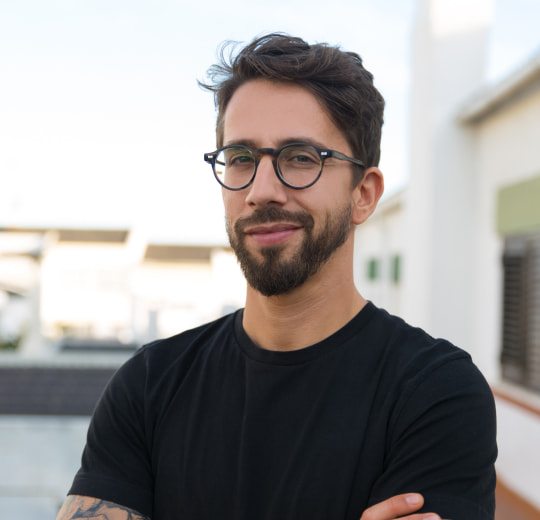
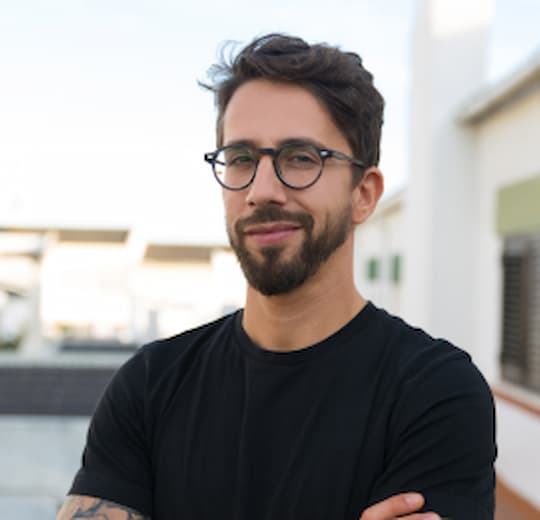
update

diff --git a/CSS/main.min.css b/CSS/main.min.css
@@ -1,1 +1,1 @@
-*{margin:0;padding:0}body{font-family:"Roboto","Raleway",sans-serif;color:#212121}a{text-decoration:none;color:inherit}a:hover,a:focus,a:active{color:#2196f3}.container{width:100%;max-width:1200px;margin:0 auto;padding-left:15px;padding-right:15px}.section__padding-top{padding-top:94px}.section__padding-bottom{padding-bottom:94px}.section-header{font-size:36px;font-weight:700;line-height:1.17;text-align:center}.contacts{font-weight:500;font-size:14px;line-height:1.14;letter-spacing:.02em;color:#757575}img{display:block}.header{border-bottom:1px solid #ececec}.header__flex{display:-webkit-box;display:-ms-flexbox;display:flex;-webkit-box-pack:justify;-ms-flex-pack:justify;justify-content:space-between;-webkit-box-align:center;-ms-flex-align:center;align-items:center}.header__padding{padding-top:16px;padding-bottom:16px}.header__menu{display:-webkit-box;display:-ms-flexbox;display:flex;-webkit-box-pack:justify;-ms-flex-pack:justify;justify-content:space-between;-webkit-box-align:center;-ms-flex-align:center;align-items:center}.header__nav{font-weight:500;font-size:14px;line-height:1.14;letter-spacing:.02em;display:-webkit-box;display:-ms-flexbox;display:flex;margin-left:93px;gap:46px}.header__nav-link{-webkit-transition:250ms cubic-bezier(0.4, 0, 0.2, 1);transition:250ms cubic-bezier(0.4, 0, 0.2, 1)}.header__nav-link--active{position:relative;color:#2196f3}.header__nav-link--active::after{content:"";display:block;background-color:#2196f3;height:4px;width:100%;position:absolute;bottom:-33px;border-radius:2px}.header__contacts-flex{display:-webkit-box;display:-ms-flexbox;display:flex;-webkit-box-align:center;-ms-flex-align:center;align-items:center}.header__contacts-link{display:-webkit-box;display:-ms-flexbox;display:flex;-webkit-box-align:center;-ms-flex-align:center;align-items:center;padding-right:30px;-webkit-transition:color 250ms cubic-bezier(0.4, 0, 0.2, 1);transition:color 250ms cubic-bezier(0.4, 0, 0.2, 1)}.header__contacts-icon-mail{width:16px;height:12px;fill:currentColor;padding-right:10px}.header__contacts-icon-tel{width:10px;height:16px;fill:currentColor;padding-right:10px}.header__contacts-icon-mail:hover,.header__contacts-icon-tel:hover,.header__contacts-icon-mail:focus,.header__contacts-icon-tel:focus{fill:#2196f3}@media screen and (min-width: 768px)and (max-width: 1200px){.header__padding{padding:26px 25px}.header__contacts-flex{-webkit-box-orient:vertical;-webkit-box-direction:normal;-ms-flex-direction:column;flex-direction:column;-webkit-box-align:start;-ms-flex-align:start;align-items:flex-start;gap:10px}.header__menu-contact-link{font-size:12px}}@media screen and (min-width: 1200px){.header__contacts-flex{display:-webkit-box;display:-ms-flexbox;display:flex;-webkit-box-align:center;-ms-flex-align:center;align-items:center}.header__padding{padding:26px 25px}}.logo{font-family:"raleway",sans-serif;font-size:26px;line-height:1.17;color:#2196f3;display:inline-block}.logo--header{color:#000}.logo--footer{color:#fff}.hero{background:-webkit-gradient(linear, left top, left bottom, from(rgba(47, 48, 58, 0.4)), to(rgba(47, 48, 58, 0.4))),url(../images/banner-photo.jpg);background:linear-gradient(rgba(47, 48, 58, 0.4), rgba(47, 48, 58, 0.4)),url(../images/banner-photo.jpg);background-size:cover;margin:0 auto}.hero__text{font-weight:900;font-size:26px;line-height:1.6;text-align:center;letter-spacing:.06em;text-transform:uppercase;color:#fff;padding-top:200px;padding-bottom:30px;margin:0}.hero__button,.modal__form-button,.footer__newsletter-button{cursor:pointer;font-size:16px;font-weight:700;line-height:1.88;letter-spacing:.06em;background-color:#2196f3;color:#fff;width:200px;height:50px;border:none;border-radius:4px}.hero__button-flex{display:-webkit-box;display:-ms-flexbox;display:flex;-webkit-box-pack:center;-ms-flex-pack:center;justify-content:center;padding-bottom:200px}@media(min-device-pixel-ratio: 2),(-webkit-min-device-pixel-ratio: 2),(min-resolution: 192dpi),(min-resolution: 2dppx){.hero{background:-webkit-gradient(linear, left top, left bottom, from(rgba(47, 48, 58, 0.4)), to(rgba(47, 48, 58, 0.4))),url(../images/banner-photo@2x.jpg);background:linear-gradient(rgba(47, 48, 58, 0.4), rgba(47, 48, 58, 0.4)),url(../images/banner-photo@2x.jpg)}}@media screen and (min-width: 768px)and (max-width: 768px){.hero{padding-top:80px}}@media screen and (min-width: 1200px){.hero{height:600px;padding-top:80px}.hero__text{font-size:44px;line-height:1.4}}.strengths__list{list-style-type:none;font-size:14px;line-height:1.7;display:-webkit-box;display:-ms-flexbox;display:flex;-ms-flex-wrap:wrap;flex-wrap:wrap;gap:20px}.strengths__box{border-radius:4px;background:#f5f4fa;display:-webkit-box;display:-ms-flexbox;display:flex;-webkit-box-pack:center;-ms-flex-pack:center;justify-content:center;-webkit-box-align:center;-ms-flex-align:center;align-items:center;margin-bottom:30px}.strengths__title{text-align:center}.strengths__text{color:#757575;font-size:14px;line-height:1.7;padding-top:10px}.strengths__icons{width:70px;height:70px}@media screen and (min-width: 768px){.strengths__title{text-align:left}.strengths__list-item{-ms-flex-preferred-size:calc((100% - 30px)/2);flex-basis:calc((100% - 30px)/2)}}@media screen and (min-width: 1200px){.strengths__list{-ms-flex-wrap:nowrap;flex-wrap:nowrap}.strengths__title{text-align:left}}.what-we-do{display:none;padding-top:50px;-webkit-box-pack:center;-ms-flex-pack:center;justify-content:center}.what-we-do__img-list{position:relative;list-style:none;display:-webkit-box;display:-ms-flexbox;display:flex;gap:30px;padding-top:50px}.what-we-do__img-caption{position:absolute;width:370px;bottom:0;padding:27px 0;font-weight:700;font-size:14px;line-height:1.14;text-align:center;letter-spacing:.03em;text-transform:uppercase;color:#fff;background-color:rgba(47,48,58,.8)}@media screen and (min-width: 1200px){.what-we-do{display:block}}.team__background{background-color:#f5f4fa}.team__flex{display:-webkit-box;display:-ms-flexbox;display:flex;-ms-flex-wrap:wrap;flex-wrap:wrap;padding-top:50px;-webkit-box-pack:justify;-ms-flex-pack:justify;justify-content:space-between;gap:30px}.team__card{background-color:#fff;-webkit-box-shadow:0px 1px 3px rgba(0,0,0,.12),0px 1px 1px rgba(0,0,0,.14),0px 2px 1px rgba(0,0,0,.2);box-shadow:0px 1px 3px rgba(0,0,0,.12),0px 1px 1px rgba(0,0,0,.14),0px 2px 1px rgba(0,0,0,.2);border-radius:0px 0px 4px 4px;text-align:center}.team__card-caption{display:block;padding:30px 0 30px 0}.team__name{font-weight:500;padding-bottom:10px}.team__job{color:#757575}.clients__list{list-style:none;display:-webkit-box;display:-ms-flexbox;display:flex;-webkit-box-pack:justify;-ms-flex-pack:justify;justify-content:space-between;padding-top:50px;gap:30px;-ms-flex-wrap:wrap;flex-wrap:wrap}.clients__list-item{-ms-flex-preferred-size:calc((100% - 30px)/2);flex-basis:calc((100% - 30px)/2)}.clients__box{display:-webkit-box;display:-ms-flexbox;display:flex;-webkit-box-pack:center;-ms-flex-pack:center;justify-content:center;-webkit-box-align:center;-ms-flex-align:center;align-items:center}.clients__border{border:1px solid #afb1b8;color:#afb1b8;border-radius:4px;width:auto;height:92px;-webkit-transition:250ms cubic-bezier(0.4, 0, 0.2, 1);transition:250ms cubic-bezier(0.4, 0, 0.2, 1)}.clients__border:hover,.clients__border:focus{border:1px solid #2196f3;fill:#2196f3}.clients__icon{width:106px;height:60px;padding:15px 30px;fill:currentColor}@media screen and (min-width: 768px){.clients__list-item{-ms-flex-preferred-size:calc((100% - 30px)/3);flex-basis:calc((100% - 30px)/3)}}@media screen and (min-width: 1200px){.clients__list{-ms-flex-wrap:nowrap;flex-wrap:nowrap}.clients__list-item{-ms-flex-preferred-size:auto;flex-basis:auto}}.footer{padding-top:60px;padding-bottom:60px;background-color:#2f303a;color:#fff;line-height:1.7;font-size:14px}.footer__padding{padding-bottom:20px}.footer__flex{display:-webkit-box;display:-ms-flexbox;display:flex;-webkit-box-orient:vertical;-webkit-box-direction:normal;-ms-flex-direction:column;flex-direction:column;-webkit-box-align:center;-ms-flex-align:center;align-items:center;text-align:center}.footer__contacts{display:inline-block}.footer__studio-address{font-style:normal}.footer__mail{color:rgba(255,255,255,.6);-webkit-box-pack:start;-ms-flex-pack:start;justify-content:flex-start;margin-top:10px;margin-bottom:10px}.footer__tel{color:rgba(255,255,255,.6);-webkit-box-pack:start;-ms-flex-pack:start;justify-content:flex-start}.footer__text{font-weight:700;line-height:1.17;letter-spacing:.03em;text-transform:uppercase}.footer__join-us{padding-top:60px}.footer__newsletter-flex{padding-top:60px}.footer__newsletter-form-flex{display:-webkit-box;display:-ms-flexbox;display:flex;-webkit-box-orient:vertical;-webkit-box-direction:normal;-ms-flex-direction:column;flex-direction:column;-webkit-box-pack:center;-ms-flex-pack:center;justify-content:center;-webkit-box-align:center;-ms-flex-align:center;align-items:center;gap:12px;padding-top:20px}.footer__newsletter-form-input{letter-spacing:.03em;color:rgba(255,255,255,.6);background-color:#2f303a;border:1px solid rgba(255,255,255,.3);border-radius:4px;height:50px;width:calc(100vw - 30px);max-width:450px;-webkit-filter:drop-shadow(0px 4px 4px rgba(0, 0, 0, 0.15));filter:drop-shadow(0px 4px 4px rgba(0, 0, 0, 0.15));padding-left:16px;-webkit-transition:250ms cubic-bezier(0.4, 0, 0.2, 1);transition:250ms cubic-bezier(0.4, 0, 0.2, 1);outline:none}.footer__newsletter-form-input:hover,.footer__newsletter-form-input:focus{border-color:#2196f3}.footer__newsletter-button{-webkit-box-shadow:0px 4px 4px rgba(0,0,0,.15);box-shadow:0px 4px 4px rgba(0,0,0,.15);padding-top:10px;padding-bottom:10px;margin:0;display:-webkit-box;display:-ms-flexbox;display:flex;-webkit-box-pack:center;-ms-flex-pack:center;justify-content:center;-webkit-box-align:center;-ms-flex-align:center;align-items:center;gap:24px}.footer__newsletter-button--icon{width:24px;height:24px;fill:#fff}.social-links{list-style:none;display:-webkit-box;display:-ms-flexbox;display:flex;-webkit-box-pack:center;-ms-flex-pack:center;justify-content:center;padding-top:20px;gap:10px}.social-links__flex{display:-webkit-box;display:-ms-flexbox;display:flex;-webkit-box-pack:center;-ms-flex-pack:center;justify-content:center;-webkit-box-align:center;-ms-flex-align:center;align-items:center}.social-links__icons{width:20px;height:20px;fill:currentColor}.social-links__border{display:-webkit-box;display:-ms-flexbox;display:flex;padding:12px;color:#afb1b8;border-radius:50%}.social-links__border:hover,.social-links__border:focus{background-color:#2196f3;color:#f5f4fa;-webkit-transition:250ms cubic-bezier(0.4, 0, 0.2, 1);transition:250ms cubic-bezier(0.4, 0, 0.2, 1)}.social-links__border--footer{border:1px hidden rgba(255,255,255,.1);background-color:rgba(255,255,255,.1);color:#fff}.backdrop--is-hidden{opacity:0;visibility:hidden;pointer-events:none}textarea#comment::-webkit-input-placeholder{color:rgba(117,117,117,.5);font-weight:400;font-size:12px;line-height:1.17;letter-spacing:.01em;text-align:left}textarea#comment::-moz-placeholder{color:rgba(117,117,117,.5);font-weight:400;font-size:12px;line-height:1.17;letter-spacing:.01em;text-align:left}textarea#comment:-ms-input-placeholder{color:rgba(117,117,117,.5);font-weight:400;font-size:12px;line-height:1.17;letter-spacing:.01em;text-align:left}textarea#comment::-ms-input-placeholder{color:rgba(117,117,117,.5);font-weight:400;font-size:12px;line-height:1.17;letter-spacing:.01em;text-align:left}textarea#comment::placeholder{color:rgba(117,117,117,.5);font-weight:400;font-size:12px;line-height:1.17;letter-spacing:.01em;text-align:left}.modal{position:sticky;width:528px;top:221px;right:536px;bottom:222px;left:536px;left:50%;background:#fff;-webkit-box-shadow:0px 1px 3px rgba(0,0,0,.12),0px 1px 1px rgba(0,0,0,.14),0px 2px 1px rgba(0,0,0,.2);box-shadow:0px 1px 3px rgba(0,0,0,.12),0px 1px 1px rgba(0,0,0,.14),0px 2px 1px rgba(0,0,0,.2);border-radius:4px;-webkit-transform:translate(-50%);transform:translate(-50%);-webkit-box-sizing:border-box;box-sizing:border-box}.modal__backdrop{position:fixed;left:0;top:0;width:100%;height:100%;background-color:rgba(0,0,0,.4);-webkit-transition:500ms ease-in-out;transition:500ms ease-in-out}.modal__backdrop .modal{-webkit-transform:translate(-50%) scale(1);transform:translate(-50%) scale(1);-webkit-transition:500ms ease-in-out;transition:500ms ease-in-out}.modal__backdrop.backdrop--is-hidden .modal{-webkit-transform:translate(-50%) scale(0);transform:translate(-50%) scale(0);-webkit-transition:500ms ease-in-out;transition:500ms ease-in-out}.modal__close-button{position:absolute;top:8px;right:8px;width:30px;height:30px;background-color:#fff;border:1px solid rgba(0,0,0,.1);border-radius:50%;cursor:pointer;font-size:22px}.modal__close-button:hover{background-color:#2196f3;color:#f5f4fa;-webkit-transition:250ms cubic-bezier(0.4, 0, 0.2, 1);transition:250ms cubic-bezier(0.4, 0, 0.2, 1)}.modal__form-wrapper{padding:40px;display:-webkit-box;display:-ms-flexbox;display:flex;-webkit-box-orient:vertical;-webkit-box-direction:normal;-ms-flex-direction:column;flex-direction:column;-webkit-box-sizing:border-box;box-sizing:border-box}.modal__form-header{font-weight:700;font-size:20px;line-height:1.15;text-align:center;letter-spacing:.03em;padding-bottom:12px}.modal__form-label{display:block;padding-bottom:4px;color:#757575;font-weight:400;font-size:12px;line-height:1.166;letter-spacing:.01em}.modal__form-field{position:relative;margin-bottom:10px}.modal__form-field-icon{position:absolute;left:15px;top:50%;-webkit-transform:translateY(-50%);transform:translateY(-50%);width:18px;height:18px;-webkit-transition:fill 250ms cubic-bezier(0.4, 0, 0.2, 1);transition:fill 250ms cubic-bezier(0.4, 0, 0.2, 1)}.modal__form-field:focus-within .modal__form-field-icon,.modal__form-field:hover .modal__form-field-icon{fill:#2196f3}.modal__form-links{text-decoration:underline;color:#2196f3}.modal__form-input,.modal__form-comment{border:1px solid rgba(33,33,33,.2);border-radius:4px;width:100%;height:40px;padding:12px 0 12px 42px;-webkit-box-sizing:border-box;box-sizing:border-box;-webkit-transition:250ms cubic-bezier(0.4, 0, 0.2, 1);transition:250ms cubic-bezier(0.4, 0, 0.2, 1);outline:none}.modal__form-input:hover,.modal__form-comment:hover,.modal__form-input:focus,.modal__form-comment:focus{border-color:#2196f3}.modal__form-comment{resize:none;height:120px;padding:12px 0 0 16px}.modal__form-comment:hover,.modal__form-comment:focus{border-color:#2196f3}.modal__form-checkbox{position:relative;display:-webkit-box;display:-ms-flexbox;display:flex;-webkit-box-pack:center;-ms-flex-pack:center;justify-content:center;-webkit-box-align:center;-ms-flex-align:center;align-items:center;margin-top:20px;margin-bottom:30px}.modal__form-checkbox input{background-color:#fff;margin:0;-webkit-appearance:none;-moz-appearance:none;appearance:none;border:2px solid #212121;width:15px;height:14px;border-radius:2px;margin-right:7px;-webkit-transition:250ms cubic-bezier(0.4, 0, 0.2, 1);transition:250ms cubic-bezier(0.4, 0, 0.2, 1)}.modal__form-checkbox input:checked{background-color:#2196f3;border:none}.modal__form-check-icon{width:11px;height:10px;position:absolute;left:18px;top:50%;-webkit-transform:translateY(-50%);transform:translateY(-50%);fill:#fff}.modal__form-terms-text{font-size:14px;line-height:1.7;letter-spacing:.03em;color:#757575}.modal__form-button{display:block;-webkit-box-shadow:0px 4px 4px rgba(0,0,0,.15);box-shadow:0px 4px 4px rgba(0,0,0,.15);margin:0 auto}@media screen and (max-width: 768px){.header__nav,.contacts{display:none}}@media screen and (min-width: 768px){.mobile-menu__toggle{display:none}}.mobile-menu{position:fixed;display:none;top:0;left:0;width:100vw;background-color:#fff;-webkit-transform:translateX(100%);transform:translateX(100%)}.mobile-menu__toggle{background:none;border:none;cursor:pointer}.mobile-menu .mobile-menu__toggle{position:absolute;color:#fff;top:16px;right:16px}.mobile-menu__container{height:100%;display:-webkit-box;display:-ms-flexbox;display:flex;-webkit-box-pack:justify;-ms-flex-pack:justify;justify-content:space-between;-webkit-box-orient:vertical;-webkit-box-direction:normal;-ms-flex-direction:column;flex-direction:column;padding-left:40px;padding-right:40px}.mobile-menu__navigation{display:-webkit-box;display:-ms-flexbox;display:flex;-webkit-box-orient:vertical;-webkit-box-direction:normal;-ms-flex-direction:column;flex-direction:column;list-style-type:none;gap:32px;padding-top:48px;padding-bottom:48px}.mobile-menu__navigation-link{font-weight:500;font-size:40px;line-height:1.18;text-align:center;letter-spacing:.02em}.mobile-menu__navigation-link-tel{font-size:34px;color:#2196f3}.mobile-menu__navigation-link-mail{font-size:24px;color:#757575}.mobile-menu__socials{list-style-type:none;display:-webkit-box;display:-ms-flexbox;display:flex;padding-top:64px}.mobile-menu__socials-item{font-weight:500;font-size:18px;line-height:1.22;letter-spacing:.02em;color:#2196f3;border-right:1px solid rgba(33,33,33,.2);margin-right:10px;padding-right:10px}.mobile-menu__socials-item:last-child{border-right:none}.mobile-menu.is-open{-webkit-transform:translateX(0);transform:translateX(0);opacity:1;display:block}.mobile-menu__close-button{position:absolute;top:8px;right:8px;width:30px;height:30px;background:none;cursor:pointer;font-size:22px}.portfolio__filters{list-style-type:none;display:-webkit-box;display:-ms-flexbox;display:flex;-webkit-box-pack:center;-ms-flex-pack:center;justify-content:center;gap:8px;padding-bottom:50px}.portfolio__button{background-color:#f5f4fa;color:#212121;cursor:pointer;font-size:16px;font-weight:500;line-height:1.62;letter-spacing:.03em;text-align:center;border-style:hidden;border-radius:4px}.portfolio__button:hover,.portfolio__button:focus{background-color:#2196f3;color:#fff;-webkit-box-shadow:0px 3px 1px rgba(0,0,0,.1),0px 1px 2px rgba(0,0,0,.08),0px 2px 2px rgba(0,0,0,.12);box-shadow:0px 3px 1px rgba(0,0,0,.1),0px 1px 2px rgba(0,0,0,.08),0px 2px 2px rgba(0,0,0,.12)}.portfolio__button-text{display:block;padding:6px 22px}.portfolio__main{color:#757575;line-height:2;display:-webkit-box;display:-ms-flexbox;display:flex;-ms-flex-wrap:wrap;flex-wrap:wrap;-webkit-box-pack:justify;-ms-flex-pack:justify;justify-content:space-between}.portfolio__card{margin-bottom:30px}.portfolio__card:hover .portfolio__card-overlay{-webkit-box-shadow:0px 1px 1px rgba(0,0,0,.12),0px 4px 4px rgba(0,0,0,.06),1px 4px 6px rgba(0,0,0,.16);box-shadow:0px 1px 1px rgba(0,0,0,.12),0px 4px 4px rgba(0,0,0,.06),1px 4px 6px rgba(0,0,0,.16);cursor:pointer;-webkit-transition:250ms cubic-bezier(0.4, 0, 0.2, 1);transition:250ms cubic-bezier(0.4, 0, 0.2, 1);-webkit-transform:translateY(-100%);transform:translateY(-100%)}.portfolio__card-overflow{position:relative;width:370px;height:294px;overflow:hidden}.portfolio__card-overlay{position:absolute;color:#fff;font-size:18px;line-height:1.56;letter-spacing:.03em;background-color:rgba(33,150,243,.9);padding:49px 45px 49px 24px;text-align:left;width:100%;height:100%;-webkit-transition:250ms cubic-bezier(0.4, 0, 0.2, 1);transition:250ms cubic-bezier(0.4, 0, 0.2, 1);-webkit-box-sizing:border-box;box-sizing:border-box}.portfolio__name{color:#212121;font-weight:700;font-size:18px;padding-bottom:4px}.portfolio__caption{border-left:solid 1px #eee;border-right:solid 1px #eee;border-bottom:solid 1px #eee;padding:20px 24px 20px 24px;cursor:pointer}/*# sourceMappingURL=main.min.css.map */
+*{margin:0;padding:0}body{font-family:"Roboto","Raleway",sans-serif;color:#212121}a{text-decoration:none;color:inherit}a:hover,a:focus,a:active{color:#2196f3}.container{max-width:1200px;margin:0 auto;padding-left:15px;padding-right:15px}.section__padding-top{padding-top:94px}.section__padding-bottom{padding-bottom:94px}.section-header{font-size:36px;font-weight:700;line-height:1.17;text-align:center}.contacts{font-weight:500;font-size:14px;line-height:1.14;letter-spacing:.02em;color:#757575}img{display:block;max-width:100%;height:auto}.header{border-bottom:1px solid #ececec}.header__flex{display:-webkit-box;display:-ms-flexbox;display:flex;-webkit-box-pack:justify;-ms-flex-pack:justify;justify-content:space-between;-webkit-box-align:center;-ms-flex-align:center;align-items:center}.header__padding{padding-top:16px;padding-bottom:16px}.header__menu{display:-webkit-box;display:-ms-flexbox;display:flex;-webkit-box-pack:justify;-ms-flex-pack:justify;justify-content:space-between;-webkit-box-align:center;-ms-flex-align:center;align-items:center}.header__nav{font-weight:500;font-size:14px;line-height:1.14;letter-spacing:.02em;display:-webkit-box;display:-ms-flexbox;display:flex;margin-left:93px;gap:46px}.header__nav-link{-webkit-transition:250ms cubic-bezier(0.4, 0, 0.2, 1);transition:250ms cubic-bezier(0.4, 0, 0.2, 1)}.header__nav-link--active{position:relative;color:#2196f3}.header__nav-link--active::after{content:"";display:block;background-color:#2196f3;height:4px;width:100%;position:absolute;bottom:-33px;border-radius:2px}.header__contacts-flex{display:-webkit-box;display:-ms-flexbox;display:flex;-webkit-box-align:center;-ms-flex-align:center;align-items:center}.header__contacts-link{display:-webkit-box;display:-ms-flexbox;display:flex;-webkit-box-align:center;-ms-flex-align:center;align-items:center;padding-right:30px;-webkit-transition:color 250ms cubic-bezier(0.4, 0, 0.2, 1);transition:color 250ms cubic-bezier(0.4, 0, 0.2, 1)}.header__contacts-icon-mail{width:16px;height:12px;fill:currentColor;padding-right:10px}.header__contacts-icon-tel{width:10px;height:16px;fill:currentColor;padding-right:10px}.header__contacts-icon-mail:hover,.header__contacts-icon-tel:hover,.header__contacts-icon-mail:focus,.header__contacts-icon-tel:focus{fill:#2196f3}@media screen and (min-width: 768px)and (max-width: 1200px){.header__padding{padding:26px 25px}.header__contacts-flex{-webkit-box-orient:vertical;-webkit-box-direction:normal;-ms-flex-direction:column;flex-direction:column;-webkit-box-align:start;-ms-flex-align:start;align-items:flex-start;gap:10px}.header__menu-contact-link{font-size:12px}}@media screen and (min-width: 1200px){.header__contacts-flex{display:-webkit-box;display:-ms-flexbox;display:flex;-webkit-box-align:center;-ms-flex-align:center;align-items:center}.header__padding{padding:26px 25px}}.logo{font-family:"raleway",sans-serif;font-size:26px;line-height:1.17;color:#2196f3;display:inline-block}.logo--header{color:#000}.logo--footer{color:#fff}.hero{background:-webkit-gradient(linear, left top, left bottom, from(rgba(47, 48, 58, 0.4)), to(rgba(47, 48, 58, 0.4))),url(../images/banner-photo.jpg);background:linear-gradient(rgba(47, 48, 58, 0.4), rgba(47, 48, 58, 0.4)),url(../images/banner-photo.jpg);background-size:cover;margin:0 auto}.hero__text{font-weight:900;font-size:26px;line-height:1.6;text-align:center;letter-spacing:.06em;text-transform:uppercase;color:#fff;padding-top:200px;padding-bottom:30px;margin:0}.hero__button,.modal__form-button,.footer__newsletter-button{cursor:pointer;font-size:16px;font-weight:700;line-height:1.88;letter-spacing:.06em;background-color:#2196f3;color:#fff;width:200px;height:50px;border:none;border-radius:4px}.hero__button-flex{display:-webkit-box;display:-ms-flexbox;display:flex;-webkit-box-pack:center;-ms-flex-pack:center;justify-content:center;padding-bottom:200px}@media(min-device-pixel-ratio: 2),(-webkit-min-device-pixel-ratio: 2),(min-resolution: 192dpi),(min-resolution: 2dppx){.hero{background:-webkit-gradient(linear, left top, left bottom, from(rgba(47, 48, 58, 0.4)), to(rgba(47, 48, 58, 0.4))),url(../images/banner-photo@2x.jpg);background:linear-gradient(rgba(47, 48, 58, 0.4), rgba(47, 48, 58, 0.4)),url(../images/banner-photo@2x.jpg)}}@media screen and (min-width: 768px)and (max-width: 768px){.hero{padding-top:80px}}@media screen and (min-width: 1200px){.hero{height:600px;padding-top:80px}.hero__text{font-size:44px;line-height:1.4}}.strengths__list{list-style-type:none;font-size:14px;line-height:1.7;display:-webkit-box;display:-ms-flexbox;display:flex;-ms-flex-wrap:wrap;flex-wrap:wrap;gap:20px}.strengths__box{border-radius:4px;background:#f5f4fa;display:-webkit-box;display:-ms-flexbox;display:flex;-webkit-box-pack:center;-ms-flex-pack:center;justify-content:center;-webkit-box-align:center;-ms-flex-align:center;align-items:center;margin-bottom:30px}.strengths__title{text-align:center}.strengths__text{color:#757575;font-size:14px;line-height:1.7;padding-top:10px}.strengths__icons{width:70px;height:70px}@media screen and (min-width: 768px){.strengths__title{text-align:left}.strengths__list-item{-ms-flex-preferred-size:calc((100% - 30px)/2);flex-basis:calc((100% - 30px)/2)}}@media screen and (min-width: 1200px){.strengths__list{-ms-flex-wrap:nowrap;flex-wrap:nowrap}.strengths__title{text-align:left}}.what-we-do{display:none;padding-top:50px;-webkit-box-pack:center;-ms-flex-pack:center;justify-content:center}.what-we-do__img-list{position:relative;list-style:none;display:-webkit-box;display:-ms-flexbox;display:flex;gap:30px;padding-top:50px}.what-we-do__img-caption{position:absolute;width:370px;bottom:0;padding:27px 0;font-weight:700;font-size:14px;line-height:1.14;text-align:center;letter-spacing:.03em;text-transform:uppercase;color:#fff;background-color:rgba(47,48,58,.8)}@media screen and (min-width: 1200px){.what-we-do{display:block}}.team__background{background-color:#f5f4fa}.team__flex{display:-webkit-box;display:-ms-flexbox;display:flex;-ms-flex-wrap:wrap;flex-wrap:wrap;padding-top:50px;-webkit-box-pack:justify;-ms-flex-pack:justify;justify-content:space-between;gap:30px}.team__card{background-color:#fff;-webkit-box-shadow:0px 1px 3px rgba(0,0,0,.12),0px 1px 1px rgba(0,0,0,.14),0px 2px 1px rgba(0,0,0,.2);box-shadow:0px 1px 3px rgba(0,0,0,.12),0px 1px 1px rgba(0,0,0,.14),0px 2px 1px rgba(0,0,0,.2);border-radius:0px 0px 4px 4px;text-align:center}.team__card-caption{display:block;padding:30px 0 30px 0}.team__name{font-weight:500;padding-bottom:10px}.team__job{color:#757575}@media screen and (min-width: 768px){.team__card{-ms-flex-preferred-size:calc((100% - 30px)/2);flex-basis:calc((100% - 30px)/2)}}@media screen and (min-width: 1200px){.team__flex{-ms-flex-wrap:nowrap;flex-wrap:nowrap}}.clients__list{list-style:none;display:-webkit-box;display:-ms-flexbox;display:flex;-webkit-box-pack:justify;-ms-flex-pack:justify;justify-content:space-between;padding-top:50px;gap:30px;-ms-flex-wrap:wrap;flex-wrap:wrap}.clients__list-item{-ms-flex-preferred-size:calc((100% - 30px)/2);flex-basis:calc((100% - 30px)/2)}.clients__box{display:-webkit-box;display:-ms-flexbox;display:flex;-webkit-box-pack:center;-ms-flex-pack:center;justify-content:center;-webkit-box-align:center;-ms-flex-align:center;align-items:center}.clients__border{border:1px solid #afb1b8;color:#afb1b8;border-radius:4px;width:auto;height:92px;-webkit-transition:250ms cubic-bezier(0.4, 0, 0.2, 1);transition:250ms cubic-bezier(0.4, 0, 0.2, 1)}.clients__border:hover,.clients__border:focus{border:1px solid #2196f3;fill:#2196f3}.clients__icon{width:106px;height:60px;padding:15px 30px;fill:currentColor}@media screen and (min-width: 768px){.clients__list-item{-ms-flex-preferred-size:calc((100% - 30px)/3);flex-basis:calc((100% - 30px)/3)}}@media screen and (min-width: 1200px){.clients__list{-ms-flex-wrap:nowrap;flex-wrap:nowrap}.clients__list-item{-ms-flex-preferred-size:auto;flex-basis:auto}}.footer{padding-top:60px;padding-bottom:60px;background-color:#2f303a;color:#fff;line-height:1.7;font-size:14px}.footer__padding{padding-bottom:20px}.footer__flex{display:-webkit-box;display:-ms-flexbox;display:flex;-webkit-box-orient:vertical;-webkit-box-direction:normal;-ms-flex-direction:column;flex-direction:column;text-align:center}.footer__contacts{display:inline-block}.footer__studio-address{font-style:normal}.footer__mail{color:rgba(255,255,255,.6);-webkit-box-pack:start;-ms-flex-pack:start;justify-content:flex-start;margin-top:10px;margin-bottom:10px}.footer__tel{color:rgba(255,255,255,.6);-webkit-box-pack:start;-ms-flex-pack:start;justify-content:flex-start}.footer__text{font-weight:700;line-height:1.17;letter-spacing:.03em;text-transform:uppercase}.footer__join-us{padding-top:60px}.footer__newsletter-flex{padding-top:60px}.footer__newsletter-form-flex{display:-webkit-box;display:-ms-flexbox;display:flex;-webkit-box-orient:vertical;-webkit-box-direction:normal;-ms-flex-direction:column;flex-direction:column;-webkit-box-pack:center;-ms-flex-pack:center;justify-content:center;-webkit-box-align:center;-ms-flex-align:center;align-items:center;gap:12px;padding-top:20px}.footer__newsletter-form-input{letter-spacing:.03em;color:rgba(255,255,255,.6);background-color:#2f303a;border:1px solid rgba(255,255,255,.3);border-radius:4px;height:50px;width:calc(100vw - 30px);max-width:450px;-webkit-filter:drop-shadow(0px 4px 4px rgba(0, 0, 0, 0.15));filter:drop-shadow(0px 4px 4px rgba(0, 0, 0, 0.15));padding-left:16px;-webkit-transition:250ms cubic-bezier(0.4, 0, 0.2, 1);transition:250ms cubic-bezier(0.4, 0, 0.2, 1);outline:none}.footer__newsletter-form-input:hover,.footer__newsletter-form-input:focus{border-color:#2196f3}.footer__newsletter-button{-webkit-box-shadow:0px 4px 4px rgba(0,0,0,.15);box-shadow:0px 4px 4px rgba(0,0,0,.15);padding-top:10px;padding-bottom:10px;margin:0;display:-webkit-box;display:-ms-flexbox;display:flex;-webkit-box-pack:center;-ms-flex-pack:center;justify-content:center;-webkit-box-align:center;-ms-flex-align:center;align-items:center;gap:24px}.footer__newsletter-button--icon{width:24px;height:24px;fill:#fff}@media screen and (min-width: 768px){.footer__flex{-webkit-box-orient:horizontal;-webkit-box-direction:normal;-ms-flex-direction:row;flex-direction:row;-ms-flex-pack:distribute;justify-content:space-around;-ms-flex-wrap:wrap;flex-wrap:wrap}.footer__newsletter-form-input{width:450px}.footer__join-us{padding-top:0px}}@media screen and (min-width: 1200px){.footer__flex{display:-webkit-box;display:-ms-flexbox;display:flex}.footer__join-us{padding:12px 0px 0px 70px}.footer__newsletter-flex{padding:12px 0px 0px 70px}.footer__newsletter-form-flex{-webkit-box-orient:horizontal;-webkit-box-direction:normal;-ms-flex-direction:row;flex-direction:row}.footer__newsletter-form-input{width:340px}}.social-links{list-style:none;display:-webkit-box;display:-ms-flexbox;display:flex;-webkit-box-pack:center;-ms-flex-pack:center;justify-content:center;padding-top:20px;gap:10px}.social-links__flex{display:-webkit-box;display:-ms-flexbox;display:flex;-webkit-box-pack:center;-ms-flex-pack:center;justify-content:center;-webkit-box-align:center;-ms-flex-align:center;align-items:center}.social-links__icons{width:20px;height:20px;fill:currentColor}.social-links__border{display:-webkit-box;display:-ms-flexbox;display:flex;padding:12px;color:#afb1b8;border-radius:50%}.social-links__border:hover,.social-links__border:focus{background-color:#2196f3;color:#f5f4fa;-webkit-transition:250ms cubic-bezier(0.4, 0, 0.2, 1);transition:250ms cubic-bezier(0.4, 0, 0.2, 1)}.social-links__border--footer{border:1px hidden rgba(255,255,255,.1);background-color:rgba(255,255,255,.1);color:#fff}.backdrop--is-hidden{opacity:0;visibility:hidden;pointer-events:none}textarea#comment::-webkit-input-placeholder{color:rgba(117,117,117,.5);font-weight:400;font-size:12px;line-height:1.17;letter-spacing:.01em;text-align:left}textarea#comment::-moz-placeholder{color:rgba(117,117,117,.5);font-weight:400;font-size:12px;line-height:1.17;letter-spacing:.01em;text-align:left}textarea#comment:-ms-input-placeholder{color:rgba(117,117,117,.5);font-weight:400;font-size:12px;line-height:1.17;letter-spacing:.01em;text-align:left}textarea#comment::-ms-input-placeholder{color:rgba(117,117,117,.5);font-weight:400;font-size:12px;line-height:1.17;letter-spacing:.01em;text-align:left}textarea#comment::placeholder{color:rgba(117,117,117,.5);font-weight:400;font-size:12px;line-height:1.17;letter-spacing:.01em;text-align:left}.modal{position:sticky;width:528px;top:221px;right:536px;bottom:222px;left:536px;left:50%;background:#fff;-webkit-box-shadow:0px 1px 3px rgba(0,0,0,.12),0px 1px 1px rgba(0,0,0,.14),0px 2px 1px rgba(0,0,0,.2);box-shadow:0px 1px 3px rgba(0,0,0,.12),0px 1px 1px rgba(0,0,0,.14),0px 2px 1px rgba(0,0,0,.2);border-radius:4px;-webkit-transform:translate(-50%);transform:translate(-50%);-webkit-box-sizing:border-box;box-sizing:border-box}.modal__backdrop{position:fixed;left:0;top:0;width:100%;height:100%;background-color:rgba(0,0,0,.4);-webkit-transition:500ms ease-in-out;transition:500ms ease-in-out}.modal__backdrop .modal{-webkit-transform:translate(-50%) scale(1);transform:translate(-50%) scale(1);-webkit-transition:500ms ease-in-out;transition:500ms ease-in-out}.modal__backdrop.backdrop--is-hidden .modal{-webkit-transform:translate(-50%) scale(0);transform:translate(-50%) scale(0);-webkit-transition:500ms ease-in-out;transition:500ms ease-in-out}.modal__close-button{position:absolute;top:8px;right:8px;width:30px;height:30px;background-color:#fff;border:1px solid rgba(0,0,0,.1);border-radius:50%;cursor:pointer;font-size:22px}.modal__close-button:hover{background-color:#2196f3;color:#f5f4fa;-webkit-transition:250ms cubic-bezier(0.4, 0, 0.2, 1);transition:250ms cubic-bezier(0.4, 0, 0.2, 1)}.modal__form-wrapper{padding:40px;display:-webkit-box;display:-ms-flexbox;display:flex;-webkit-box-orient:vertical;-webkit-box-direction:normal;-ms-flex-direction:column;flex-direction:column;-webkit-box-sizing:border-box;box-sizing:border-box}.modal__form-header{font-weight:700;font-size:20px;line-height:1.15;text-align:center;letter-spacing:.03em;padding-bottom:12px}.modal__form-label{display:block;padding-bottom:4px;color:#757575;font-weight:400;font-size:12px;line-height:1.166;letter-spacing:.01em}.modal__form-field{position:relative;margin-bottom:10px}.modal__form-field-icon{position:absolute;left:15px;top:50%;-webkit-transform:translateY(-50%);transform:translateY(-50%);width:18px;height:18px;-webkit-transition:fill 250ms cubic-bezier(0.4, 0, 0.2, 1);transition:fill 250ms cubic-bezier(0.4, 0, 0.2, 1)}.modal__form-field:focus-within .modal__form-field-icon,.modal__form-field:hover .modal__form-field-icon{fill:#2196f3}.modal__form-links{text-decoration:underline;color:#2196f3}.modal__form-input,.modal__form-comment{border:1px solid rgba(33,33,33,.2);border-radius:4px;width:100%;height:40px;padding:12px 0 12px 42px;-webkit-box-sizing:border-box;box-sizing:border-box;-webkit-transition:250ms cubic-bezier(0.4, 0, 0.2, 1);transition:250ms cubic-bezier(0.4, 0, 0.2, 1);outline:none}.modal__form-input:hover,.modal__form-comment:hover,.modal__form-input:focus,.modal__form-comment:focus{border-color:#2196f3}.modal__form-comment{resize:none;height:120px;padding:12px 0 0 16px}.modal__form-comment:hover,.modal__form-comment:focus{border-color:#2196f3}.modal__form-checkbox{position:relative;display:-webkit-box;display:-ms-flexbox;display:flex;-webkit-box-pack:center;-ms-flex-pack:center;justify-content:center;-webkit-box-align:center;-ms-flex-align:center;align-items:center;margin-top:20px;margin-bottom:30px}.modal__form-checkbox input{background-color:#fff;margin:0;-webkit-appearance:none;-moz-appearance:none;appearance:none;border:2px solid #212121;width:15px;height:14px;border-radius:2px;margin-right:7px;-webkit-transition:250ms cubic-bezier(0.4, 0, 0.2, 1);transition:250ms cubic-bezier(0.4, 0, 0.2, 1)}.modal__form-checkbox input:checked{background-color:#2196f3;border:none}.modal__form-check-icon{width:11px;height:10px;position:absolute;left:18px;top:50%;-webkit-transform:translateY(-50%);transform:translateY(-50%);fill:#fff}.modal__form-terms-text{font-size:14px;line-height:1.7;letter-spacing:.03em;color:#757575}.modal__form-button{display:block;-webkit-box-shadow:0px 4px 4px rgba(0,0,0,.15);box-shadow:0px 4px 4px rgba(0,0,0,.15);margin:0 auto}@media screen and (max-width: 768px){.header__nav,.contacts{display:none}}@media screen and (min-width: 768px){.mobile-menu__toggle{display:none}}.mobile-menu{position:fixed;display:none;top:0;left:0;width:100vw;background-color:#fff;-webkit-transform:translateX(100%);transform:translateX(100%)}.mobile-menu__toggle{background:none;border:none;cursor:pointer}.mobile-menu .mobile-menu__toggle{position:absolute;color:#fff;top:16px;right:16px}.mobile-menu__container{height:100%;display:-webkit-box;display:-ms-flexbox;display:flex;-webkit-box-pack:justify;-ms-flex-pack:justify;justify-content:space-between;-webkit-box-orient:vertical;-webkit-box-direction:normal;-ms-flex-direction:column;flex-direction:column;padding-left:40px;padding-right:40px}.mobile-menu__navigation{display:-webkit-box;display:-ms-flexbox;display:flex;-webkit-box-orient:vertical;-webkit-box-direction:normal;-ms-flex-direction:column;flex-direction:column;list-style-type:none;gap:32px;padding-top:48px;padding-bottom:48px}.mobile-menu__navigation-link{font-weight:500;font-size:40px;line-height:1.18;text-align:center;letter-spacing:.02em}.mobile-menu__navigation-link-tel{font-size:34px;color:#2196f3}.mobile-menu__navigation-link-mail{font-size:24px;color:#757575}.mobile-menu__socials{list-style-type:none;display:-webkit-box;display:-ms-flexbox;display:flex;padding-top:64px}.mobile-menu__socials-item{font-weight:500;font-size:18px;line-height:1.22;letter-spacing:.02em;color:#2196f3;border-right:1px solid rgba(33,33,33,.2);margin-right:10px;padding-right:10px}.mobile-menu__socials-item:last-child{border-right:none}.mobile-menu.is-open{-webkit-transform:translateX(0);transform:translateX(0);opacity:1;display:block}.mobile-menu__close-button{position:absolute;top:8px;right:8px;width:30px;height:30px;background:none;cursor:pointer;font-size:22px}.portfolio__filters{list-style-type:none;display:-webkit-box;display:-ms-flexbox;display:flex;-webkit-box-pack:center;-ms-flex-pack:center;justify-content:center;gap:8px;padding-bottom:50px}.portfolio__button{background-color:#f5f4fa;color:#212121;cursor:pointer;font-size:16px;font-weight:500;line-height:1.62;letter-spacing:.03em;text-align:center;border-style:hidden;border-radius:4px}.portfolio__button:hover,.portfolio__button:focus{background-color:#2196f3;color:#fff;-webkit-box-shadow:0px 3px 1px rgba(0,0,0,.1),0px 1px 2px rgba(0,0,0,.08),0px 2px 2px rgba(0,0,0,.12);box-shadow:0px 3px 1px rgba(0,0,0,.1),0px 1px 2px rgba(0,0,0,.08),0px 2px 2px rgba(0,0,0,.12)}.portfolio__button-text{display:block;padding:6px 22px}.portfolio__main{color:#757575;line-height:2;display:-webkit-box;display:-ms-flexbox;display:flex;-ms-flex-wrap:wrap;flex-wrap:wrap;-webkit-box-pack:justify;-ms-flex-pack:justify;justify-content:space-between}.portfolio__card{margin-bottom:30px}.portfolio__card:hover .portfolio__card-overlay{-webkit-box-shadow:0px 1px 1px rgba(0,0,0,.12),0px 4px 4px rgba(0,0,0,.06),1px 4px 6px rgba(0,0,0,.16);box-shadow:0px 1px 1px rgba(0,0,0,.12),0px 4px 4px rgba(0,0,0,.06),1px 4px 6px rgba(0,0,0,.16);cursor:pointer;-webkit-transition:250ms cubic-bezier(0.4, 0, 0.2, 1);transition:250ms cubic-bezier(0.4, 0, 0.2, 1);-webkit-transform:translateY(-100%);transform:translateY(-100%)}.portfolio__card-overflow{position:relative;width:370px;height:294px;overflow:hidden}.portfolio__card-overlay{position:absolute;color:#fff;font-size:18px;line-height:1.56;letter-spacing:.03em;background-color:rgba(33,150,243,.9);padding:49px 45px 49px 24px;text-align:left;width:100%;height:100%;-webkit-transition:250ms cubic-bezier(0.4, 0, 0.2, 1);transition:250ms cubic-bezier(0.4, 0, 0.2, 1);-webkit-box-sizing:border-box;box-sizing:border-box}.portfolio__name{color:#212121;font-weight:700;font-size:18px;padding-bottom:4px}.portfolio__caption{border-left:solid 1px #eee;border-right:solid 1px #eee;border-bottom:solid 1px #eee;padding:20px 24px 20px 24px;cursor:pointer}/*# sourceMappingURL=main.min.css.map */

diff --git a/sass/components/_footer.scss b/sass/components/_footer.scss
@@ -13,7 +13,6 @@
   &__flex {
     display: flex;
     flex-direction: column;
-    align-items: center;
     text-align: center;
   }
 
@@ -97,5 +96,42 @@
       height: 24px;
       fill: $primaryBrightColor;
     }
+  }
+}
+
+@media screen and (min-width: $tabletSize) {
+  .footer__flex {
+    flex-direction: row;
+    justify-content: space-around;
+    flex-wrap: wrap;
+  }
+  .footer__newsletter-form-input {
+    width: 450px;
+  }
+
+  .footer__join-us {
+    padding-top: 0px;
+  }
+}
+
+@media screen and (min-width: $desktopSize) {
+  .footer__flex {
+    display: flex;
+  }
+
+  .footer__join-us {
+    padding: 12px 0px 0px 70px;
+  }
+
+  .footer__newsletter-flex {
+    padding: 12px 0px 0px 70px;
+  }
+
+  .footer__newsletter-form-flex {
+    flex-direction: row;
+  }
+
+  .footer__newsletter-form-input {
+    width: 340px;
   }
 }

diff --git a/sass/components/_team.scss b/sass/components/_team.scss
@@ -31,3 +31,23 @@
 .team__job {
   color: $secondaryTextColor;
 }
+
+@media screen and (min-width: $tabletSize) {
+  .team__card {
+    flex-basis: calc((100% - 30px) / 2);
+  }
+}
+
+@media screen and (min-width: $desktopSize) {
+  // .team {
+  //   padding: 94px 0;
+  // }
+
+  .team__flex {
+    flex-wrap: nowrap;
+  }
+
+  // .team__description-text {
+  //   margin-bottom: 30px;
+  // }
+}

diff --git a/sass/utils/globals.scss b/sass/utils/globals.scss
@@ -51,4 +51,6 @@ a:active {
 
 img {
   display: block;
+  max-width: 100%;
+  height: auto;
 }
